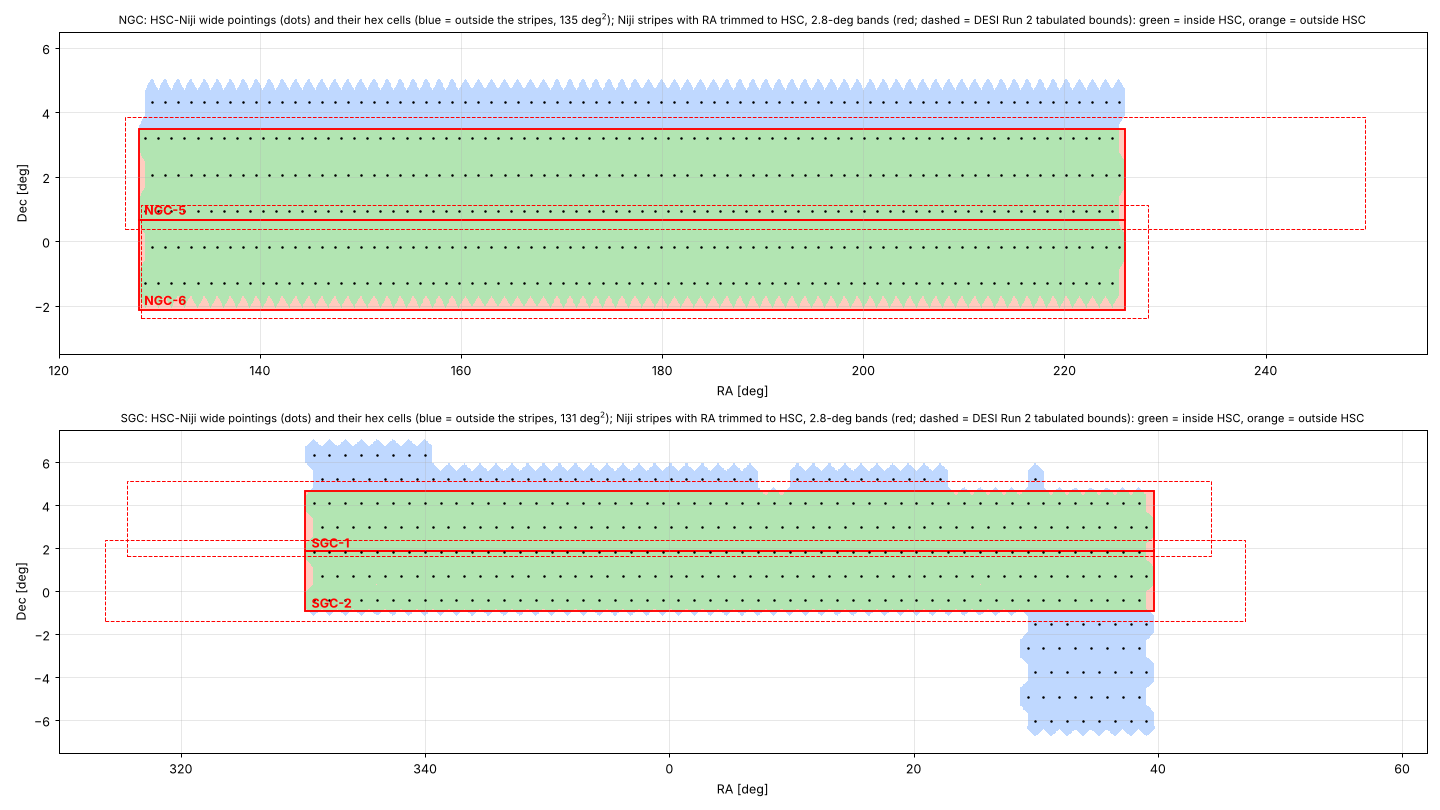
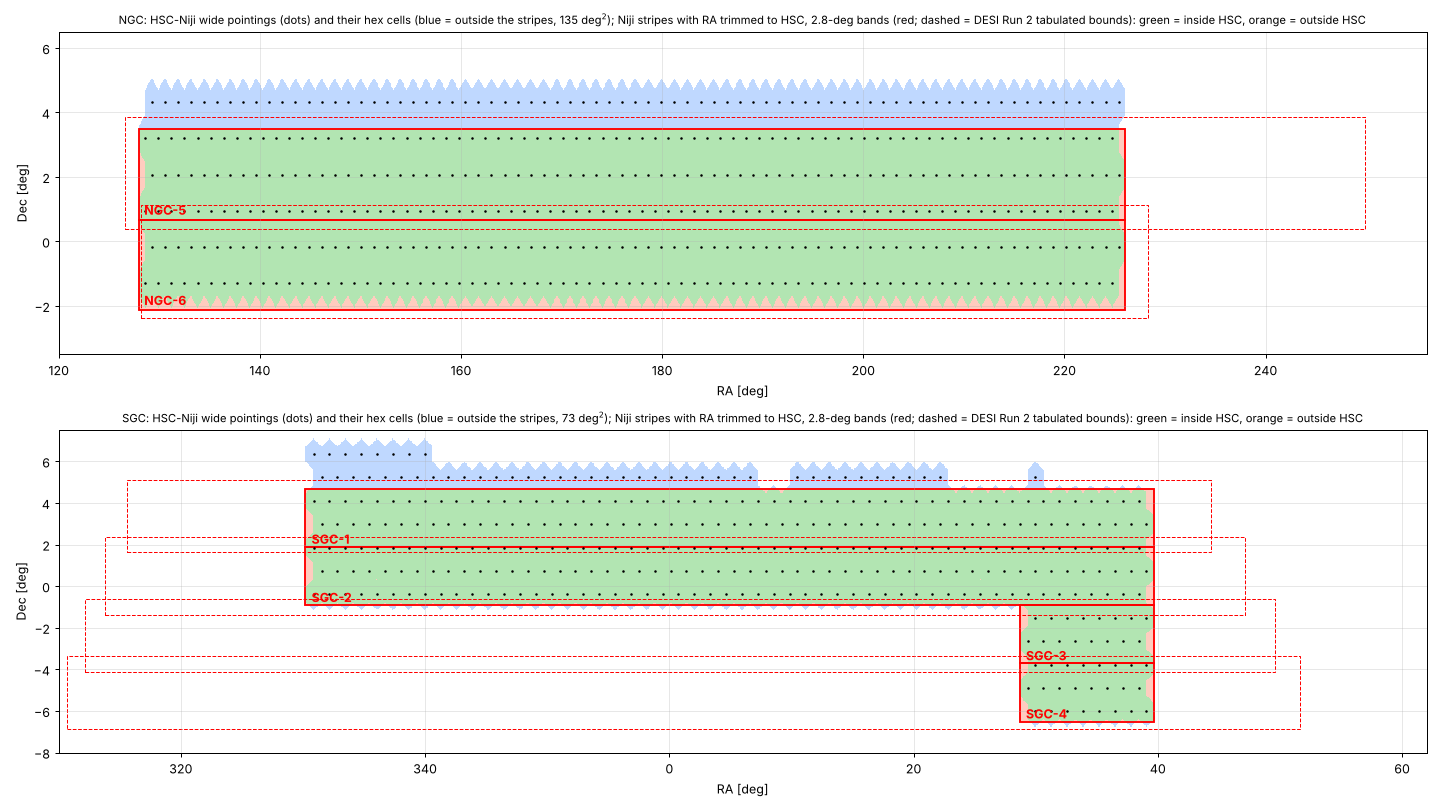
Niji stripe footprint: add the southern SGC block as stripes SGC-3 and SGC-4
The 5 x 8 HSC-Niji pointings at RA 29.3-39.1, Dec -6.0 to -1.5 enter the
adopted footprint as two further 2.8-deg stripes (RA 28.7-39.7, Dec -6.51
to -0.91), continuing the DESI stripe sequence.  999 deg^2, 963 inside HSC;
674 lattice centres / 2696 tiles (680 SSP pointings / 2720 tiles).  Figure,
README tables and script comments updated.

Claude-Session: https://claude.ai/code/session_01HPzmbaqAatVBaYaCVvNozC

Changed region(s): [[0.1875, 0.6481, 0.8125, 0.9259], [0.0938, 0.4938, 0.9375, 0.5247], [0.1875, 0.5864, 0.8125, 0.6173]]

diff --git a/data/subaru3/README.md b/data/subaru3/README.md
@@ -99,10 +99,11 @@ with the HSC-SSP Wide spacing, fitted to each band (5 rows per 5.6-deg band,
 1.12 deg apart, with the number of columns rounded so the lattice is centred
 in each row's RA extent), and `--init-offsets` adds Atsushi's four dithers:
 1.45 deg² per centre as in his layout (784 centres / 3136 tiles on the DESI bounds,
-637 / 2548 on the trimmed stripes).  Alternatively `--init-centers
+674 / 2696 on the adopted footprint).  Alternatively `--init-centers
 ../subaru/hsc_niji_wide_pointings.csv --margin 0` starts from the HSC-SSP Wide
-pointings themselves, keeping the 640 whose centres fall inside the trimmed stripes
-(five rows per band in each cap, e.g. Dec -1.3, -0.18, 0.95, 2.08, 3.2 in the NGC): the
+pointings themselves, keeping the 680 whose centres fall inside the adopted footprint
+(five rows per 5.6-deg band, e.g. Dec -1.3, -0.18, 0.95, 2.08, 3.2 in the NGC and
+-6.02 ... -1.52 in the southern SGC block): the
 two starts have the same density and, with the four dithers, the same coverage
 statistics to within 1-2% (lattice: 6.1% of the coverage outside the footprint, inside
 rms/mean 0.39 / 0.34 / 0.35 / 0.34; SSP pointings: 6.7%, 0.40 / 0.34 / 0.35 / 0.35 — the
@@ -140,7 +141,8 @@ footprint (not needed in this test: no centre got that far).
 HSC-Niji wide pointings (HSC-SSP Wide DR4 full-colour pointings, Atsushi's
 footprint).  Of the stripes' 1135 deg², 905 lie inside those cells and 230 outside;
 266 deg² of the HSC footprint (its top row in the NGC at Dec 3.5-5.1, and the SGC
-area at Dec > 4.7 and the block at RA 30-39, Dec -2 to -6) is not in any stripe.
+area at Dec > 4.7 and the block at RA 30-39, Dec -2 to -6) is not in any DESI Niji stripe
+(208 deg² once the southern block is added as SGC-3/4 below).
 Per stripe (deg², and the RA / Dec extent of the HSC cells within the stripe's Dec band):
 
 | stripe | area | inside HSC | outside HSC | HSC RA extent | HSC Dec extent |
@@ -155,14 +157,19 @@ NGC-6 2 deg, and the SGC stripes extend 16 deg below and 5-8 deg above it.  In D
 NGC band fits the HSC rows well (its bottom edge at -2.12 runs along the zig-zag bottom of
 the lowest row of cells, so a 0.4-deg strip there is only half covered); the SGC band
 sits inside the HSC Dec range.  **`niji_stripes_2p8_hsc.csv` — the adopted footprint —** is the same four stripes with
-the RA bounds trimmed to the HSC extent (NGC 128.0-226.0, SGC 330.2-39.7): 937 deg², of
-which 905 inside HSC and 32 outside (the NGC-6 bottom strip); 637 lattice centres, 2548
-tiles with Atsushi's four dithers.  `niji_stripes_hsc_vs_hsc.png` is the same overlay for the
-trimmed stripes.
+the RA bounds trimmed to the HSC extent (NGC 128.0-226.0, SGC 330.2-39.7), plus the
+southern extension of the HSC SGC area (the block of 5 x 8 pointings at RA 29.3-39.1,
+Dec -6.0 to -1.5) taken as two further 2.8-deg stripes, SGC-3 and SGC-4, down to
+Dec -6.51 at RA 28.7-39.7: 999 deg², of which 963 inside HSC and 36 outside (mostly
+the NGC-6 bottom strip); 674 lattice centres, 2696 tiles with Atsushi's four dithers
+(or 680 SSP pointings, 2720 tiles).  `niji_stripes_hsc_vs_hsc.png` is the overlay for
+this footprint.
 
-| stripe (trimmed) | RA | Dec (2.8-deg band) | area deg² |
-|---|---|---|---|
-| NGC-5 | 128.0-226.0 | 0.68-3.48 | 274.2 |
-| NGC-6 | 128.0-226.0 | -2.12-0.68 | 274.4 |
-| SGC-1 | 330.2-39.7 | 1.89-4.69 | 194.3 |
-| SGC-2 | 330.2-39.7 | -0.91-1.89 | 194.6 |
+| stripe (adopted) | RA | Dec (2.8-deg band) | area deg² | inside HSC |
+|---|---|---|---|---|
+| NGC-5 | 128.0-226.0 | 0.68-3.48 | 274.2 | 272.5 |
+| NGC-6 | 128.0-226.0 | -2.12-0.68 | 274.4 | 249.7 |
+| SGC-1 | 330.2-39.7 | 1.89-4.69 | 194.3 | 191.2 |
+| SGC-2 | 330.2-39.7 | -0.91-1.89 | 194.6 | 191.6 |
+| SGC-3 | 28.7-39.7 | -3.71 to -0.91 | 30.8 | 29.0 |
+| SGC-4 | 28.7-39.7 | -6.51 to -3.71 | 30.7 | 28.8 |

diff --git a/nersc/README.md b/nersc/README.md
@@ -89,11 +89,12 @@ sbatch nersc/anneal_hsc_stripes.sh 1      # rms/mean objective
 sbatch nersc/anneal_hsc_stripes.sh 2      # rms/mean^2: pulls tiles in harder
 ```
 
-anneals a lattice + dither start (2548 tiles) over `data/subaru3/niji_stripes_2p8_hsc.csv`
-(the Niji stripes with their RA bounds trimmed to the HSC-Niji wide footprint; a fourth
+anneals a lattice + dither start (2696 tiles) over `data/subaru3/niji_stripes_2p8_hsc.csv`
+(the Niji stripes with their RA bounds trimmed to the HSC-Niji wide footprint, plus the
+southern SGC block as SGC-3/4; a fourth
 argument names another rectangle file, e.g. `niji_stripes_2p8.csv` for the untrimmed DESI bounds,
 and a fifth replaces the lattice start with a pointing-centre CSV, e.g.
-`data/subaru/hsc_niji_wide_pointings.csv` to start from the 640 HSC-SSP Wide pointings inside the stripes)
+`data/subaru/hsc_niji_wide_pointings.csv` to start from the 680 HSC-SSP Wide pointings inside the stripes)
 against the `data/subaru3` model, 300 iterations (`--objective cv`, see
 `data/subaru3/README.md`); output `$SCRATCH/skytiling/hsc_stripes/stripes_p<p>_tiles_NNNN.fits`
 with a `pid` (pointing id) column.  Both runs share the randoms file written by the first.
